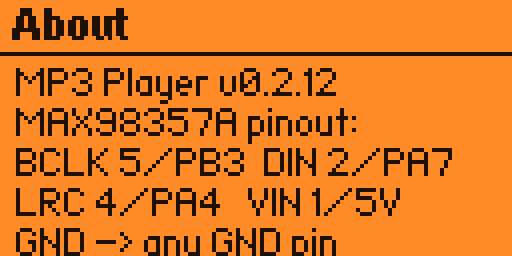
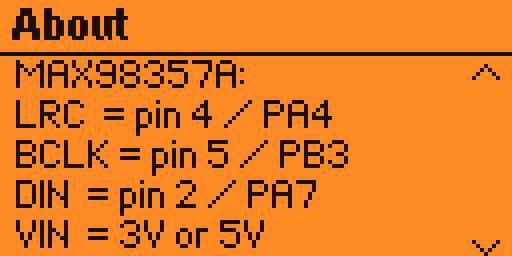
Update About screenshot and README for the v3.4 scrollable About
Replaces the About screenshot with a v3.4 capture of the scrollable
pinout screen and documents the About scroll controls in the README.
No code or binary change, so this rides on the same v3.4 release.

diff --git a/README.md b/README.md
@@ -78,6 +78,10 @@ Seeking resumes only if the song was playing before the hold; a paused song stay
 - **Volume** — same level used by Now Playing.
 - **Rescan library** — re-reads the folder named in `music_path.txt`.
 
+### About
+
+The About screen shows the version, credit, and the full pinout for both amplifier modules. It is longer than the screen, so it scrolls with **Up / Down**; chevrons on the right edge indicate more lines above or below. **Back** returns to the main menu.
+
 ## Configurable music folder
 
 During launch, before any library scan, the app creates this editable text file on the SD card if it does not already exist: